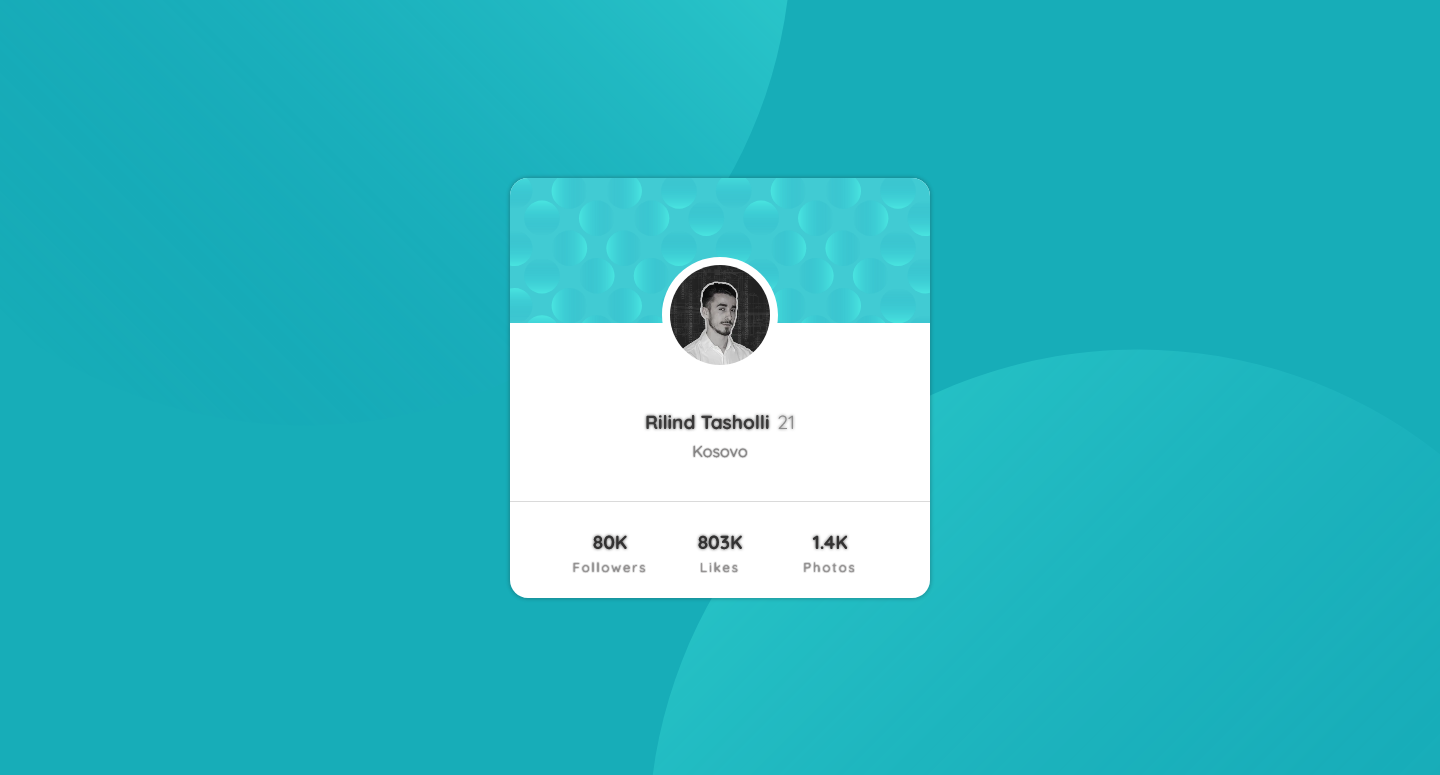
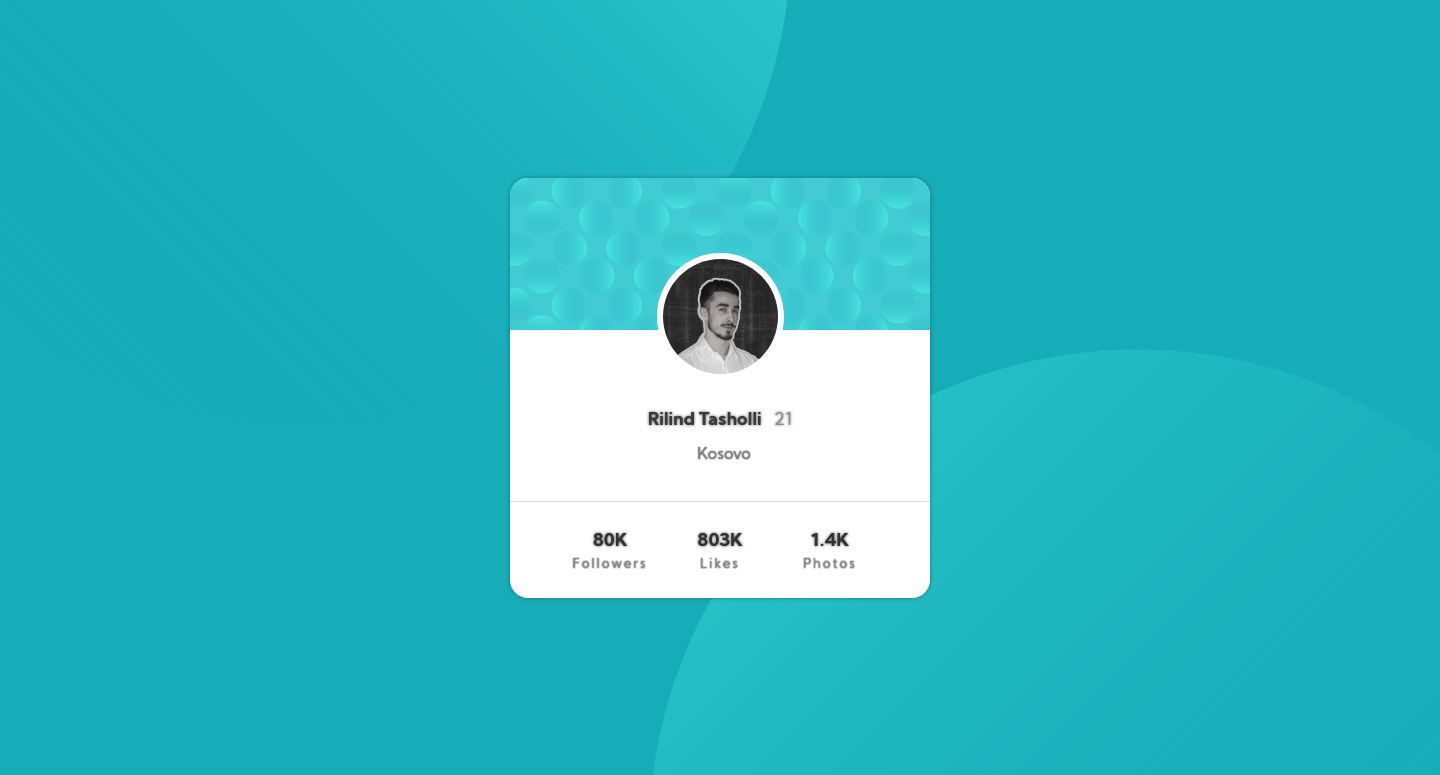
read me edit

diff --git a/style.css b/style.css
@@ -59,7 +59,7 @@ body{
    flex-direction: column;
    align-items: center;
    justify-content: center;
-   height: 55%;
+   height: 53%;
    /* border: solid 1px blue; */
    
 }

diff --git a/README.md b/README.md
@@ -21,13 +21,16 @@ This is a solution to the [Profile card component challenge on Frontend Mentor](
 - Build out the project to the designs provided
 
 ### Screenshot
-
-![Design](https://raw.github.com/rilindtasholli/profile-card-component/main/design/desktop-design.jpg)
-![Solution](https://raw.github.com/rilindtasholli/profile-card-component/main/screenshot.png)
+- Design
+![](https://raw.github.com/rilindtasholli/profile-card-component/main/design/desktop-design.jpg)
+- Solution
+![](https://raw.github.com/rilindtasholli/profile-card-component/main/solution-screenshot.png)
 
 ### Links
 
-- Solution URL: [Add solution URL here](https://your-solution-url.com)
+- Live Site URL: [Open Live Site](https://rilindtasholli.github.io/profile-card-component)
+- Solution URL: [Open Solution](https://www.frontendmentor.io/solutions/profile-card-component-solution-using-simple-html-and-css-_OZZjYIAM)
+
 
 ## My process
 
